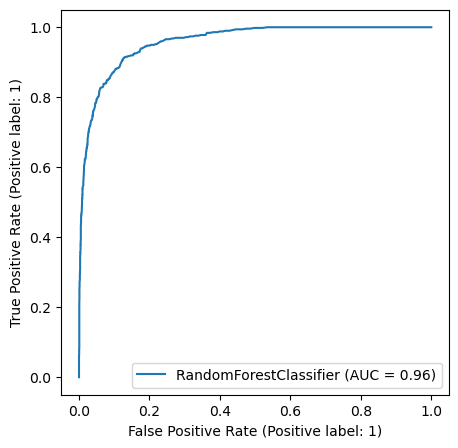
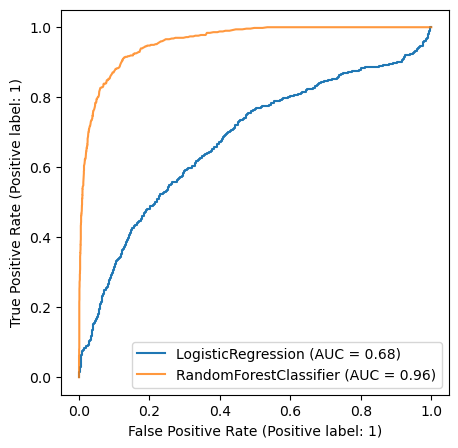
fixing bug while saving ROC-AUC image

diff --git a/churn_library.py b/churn_library.py
@@ -262,7 +262,8 @@ class Model():
         # Store ROC curve with its corresponding AUC score
         plt.figure(figsize=(15, 8))
         plot_roc_curve(lr_model, self.X_test, self.y_test)
-        plot_roc_curve(rf_model, self.X_test, self.y_test)
+        ax = plt.gca()
+        plot_roc_curve(rf_model, self.X_test, self.y_test, ax=ax, alpha=0.8)
         plt.savefig('./images/results/roc_auc.png', bbox_inches='tight')
         plt.close()
 
